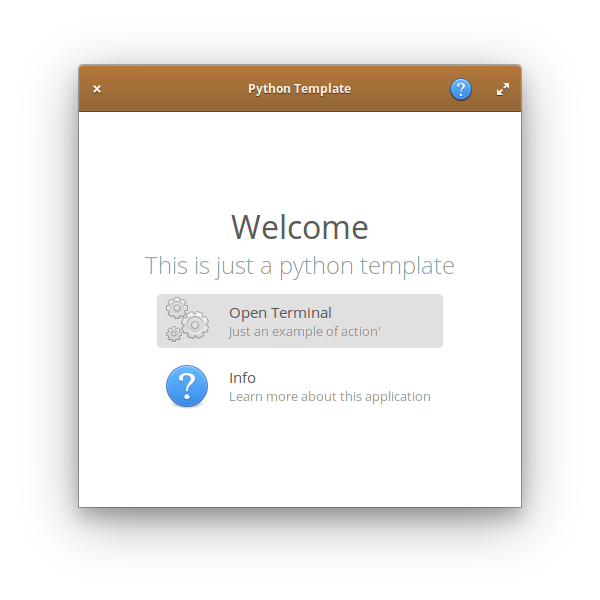
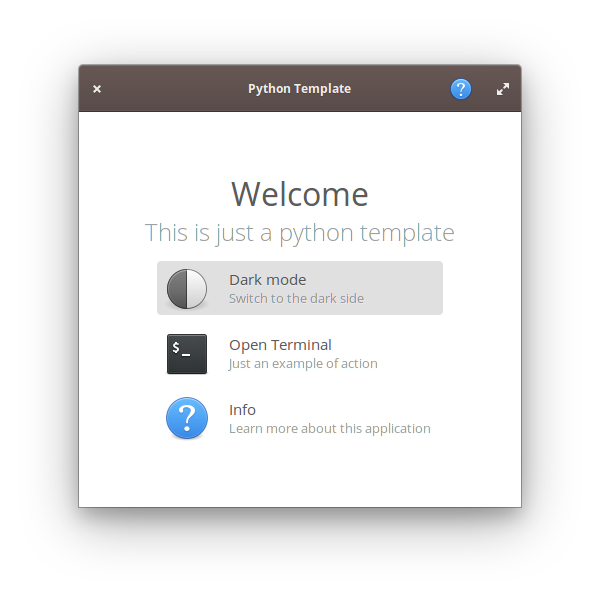
Dark mode

Changed region(s): [[0.24, 0.3, 0.75, 0.75], [0.12, 0.09, 0.87, 0.21], [0.24, 0.36, 0.3, 0.39]]

diff --git a/elementarypython/welcome.py b/elementarypython/welcome.py
@@ -27,15 +27,20 @@ from gi.repository import Gtk, Gdk, Granite
 import constants as cn
 
 class Welcome(Gtk.Box):
+        
+    # Define variable for GTK global theme
+    settings = Gtk.Settings.get_default()
 
     def __init__(self):
-
         Gtk.Box.__init__(self, False, 0)
+
+        # Create welcome widget
         welcome = Granite.WidgetsWelcome()
         welcome = welcome.new("Welcome", cn.App.application_description)
 
         # Welcome voices
-        welcome.append("system-run", "Open Terminal", "Just an example of action'")
+        welcome.append("object-inverse", "Dark mode", "Switch to the dark side")
+        welcome.append("utilities-terminal", "Open Terminal", "Just an example of action")
         welcome.append("help-contents", "Info", "Learn more about this application")
         
         welcome.connect("activated", self.on_welcome_activated)
@@ -44,6 +49,12 @@ class Welcome(Gtk.Box):
 
     def on_welcome_activated(self, widget, index):
         if index == 0:
+            # Use GTK Dark theme
+            if self.settings.get_property("gtk-application-prefer-dark-theme") == True:
+                self.settings.set_property("gtk-application-prefer-dark-theme", False)
+            else:
+                self.settings.set_property("gtk-application-prefer-dark-theme", True)
+        elif index == 0:
             # Open terminal
             os.system("io.elementary.terminal")
         else:

diff --git a/elementarypython/constants.py b/elementarypython/constants.py
@@ -34,6 +34,6 @@ class App:
     about_license_type = Gtk.License.GPL_3_0
 
 class Colors:
-    primary_color = "#ac7339"
-    primary_text_color = "#f9f2ec"
-    primary_text_shadow_color = "#4d3319"
+    primary_color = "#645552"
+    primary_text_color = "#EEEDEC"
+    primary_text_shadow_color = "#53433F"

diff --git a/README.md b/README.md
@@ -1,7 +1,7 @@
 # Elementary Python
 
 This is a python application template for elementary OS.
-![Screenshot](screenshot.png)
+![Screenshot](screenshot.png) ![Screenshot](screenshot-dark.png)
 
 ## Requirements
 
